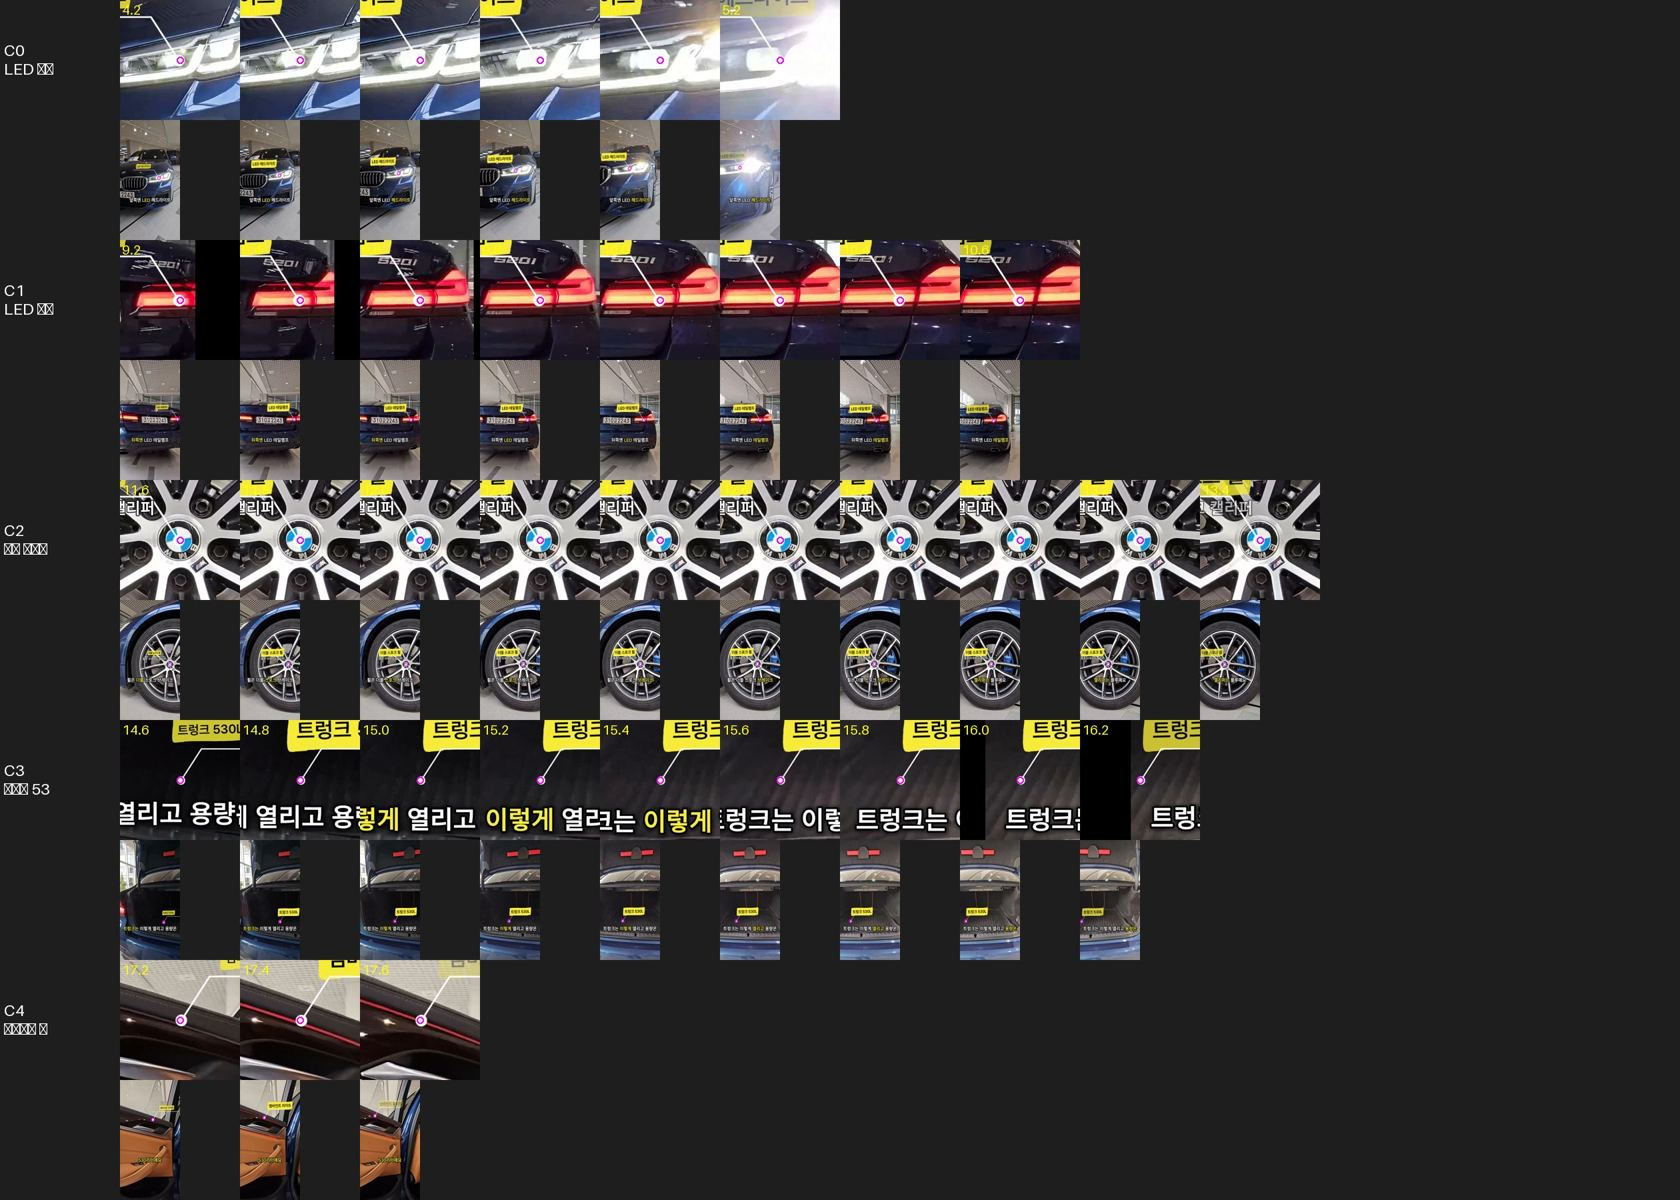
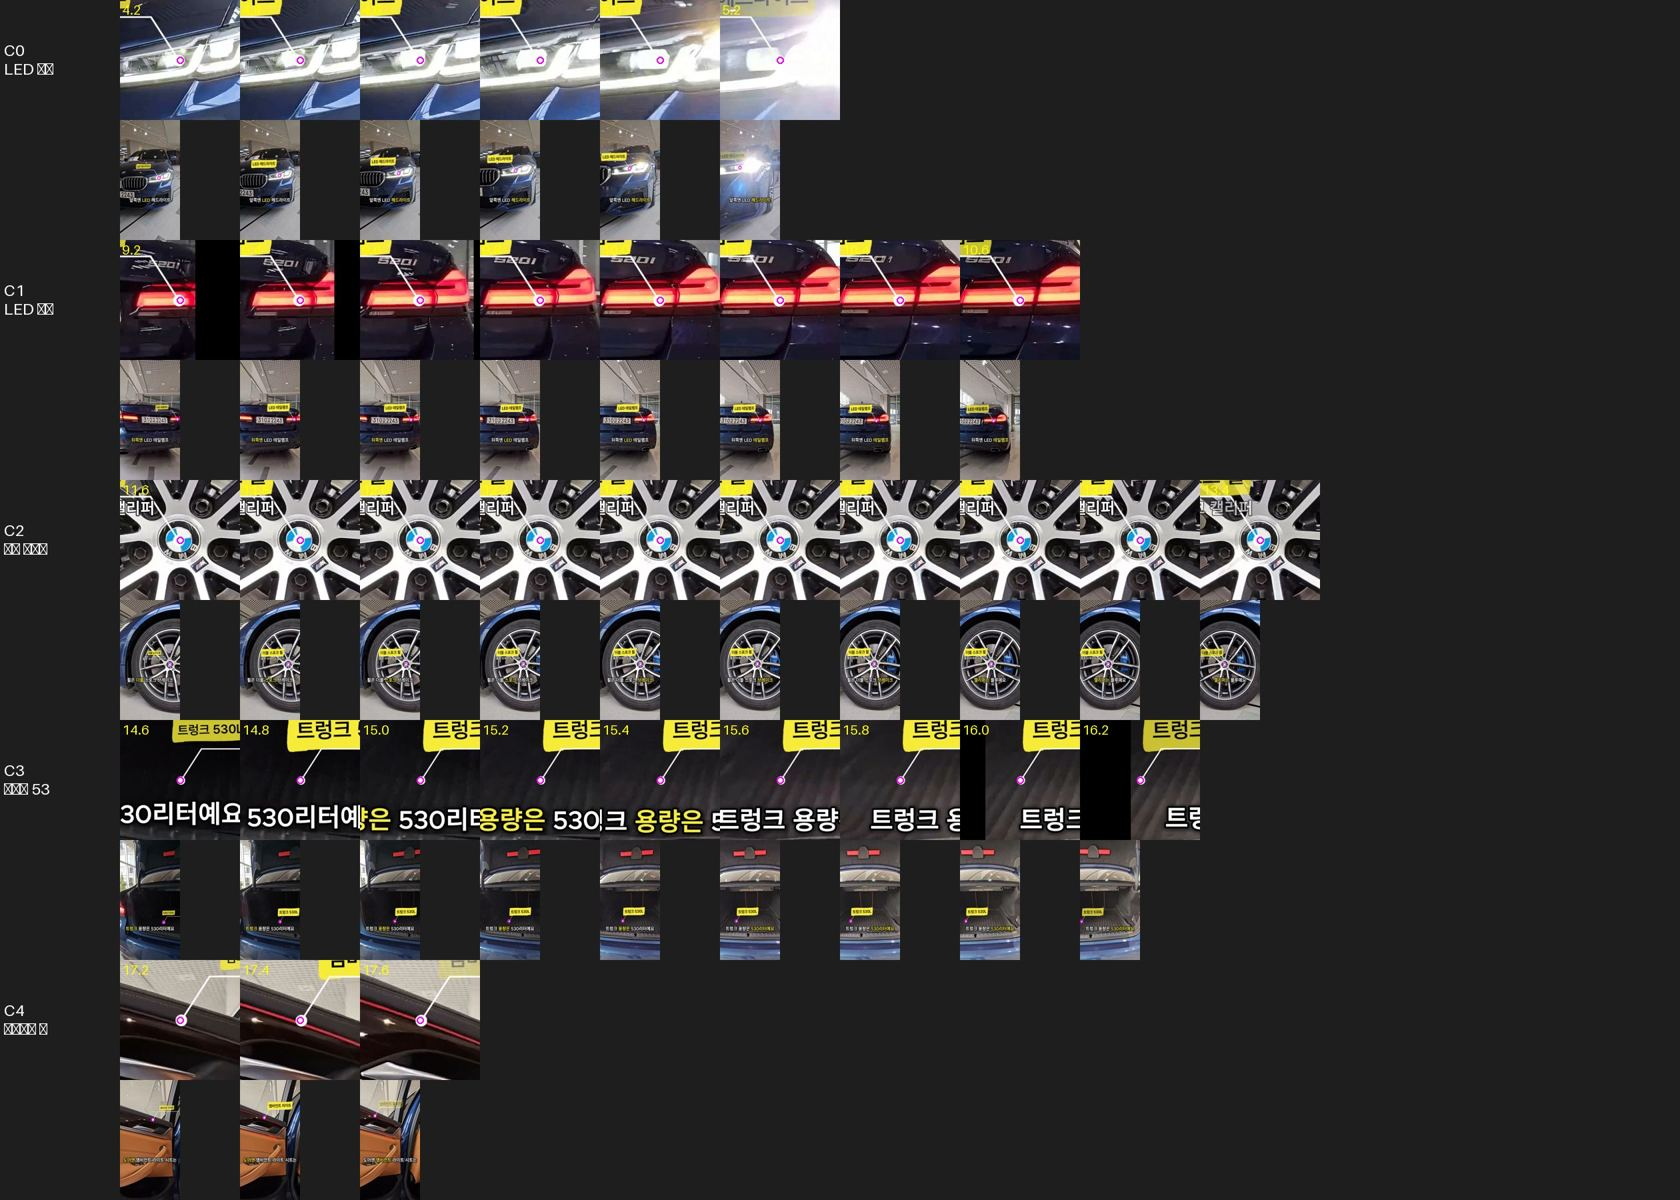
520i 3차 결과: 영상 링크·트렁크 장면 확인
Claude-Session: https://claude.ai/code/session_01AMh7xoXiuzDvjCLxYCuX6F

diff --git a/reports/shortform/cha-520i-auto-v1/report.md b/reports/shortform/cha-520i-auto-v1/report.md
@@ -41,9 +41,9 @@ X5 전용 스크립트를 **사양서 한 장(spec.json)으로 움직이는 3개
 - 휠 보조 글(블루 브레이크 캘리퍼)이 타이어 위라 덜 읽힘 — 보조 글에 그림자를 더 넣을지 검토.
 
 ---
-# 2차 (12:19 지시 → 12:41 완료) — 트렁크 용량 대사 + 포인터 전수 조사
+# 2·3차 (12:19 → 12:48) — 트렁크 용량 대사 + 포인터 전수 조사 + 추상 대사 제거
 
-- 영상: https://drive.google.com/file/d/1J2po7nP9kv9AG32XCN1St7j3BrFPAQz2/view (`CHA_520i_auto_v3`, 53.5초, 9.7Mbps, 소리 192kbps)
+- 영상: https://drive.google.com/file/d/1Z7RHWJQdC2SYQ1NZ5kRK5Xwef6sLoxIU/view (`CHA_520i_auto_v3`, 53.5초, 9.7Mbps, 소리 192kbps)
 
 ## 트렁크 용량
 - 대사 "트렁크 용량은 530리터예요" — 같은 목소리(안교수)로 이 문장만 생성(`voice_trunk.mp3`, 18크레딧). 처음엔 "트렁크는 이렇게 열리고 용량은…"(28크레딧)으로 만들었으나 "이렇게 열리고" 같은 추상적인 말은 쓰지 않기로 해 다시 만듦(12:43 지시). 이제 1.0배 속도로 다음 장면 전에 끝나 자막이 앰비언트 장면으로 넘어가지 않음.
